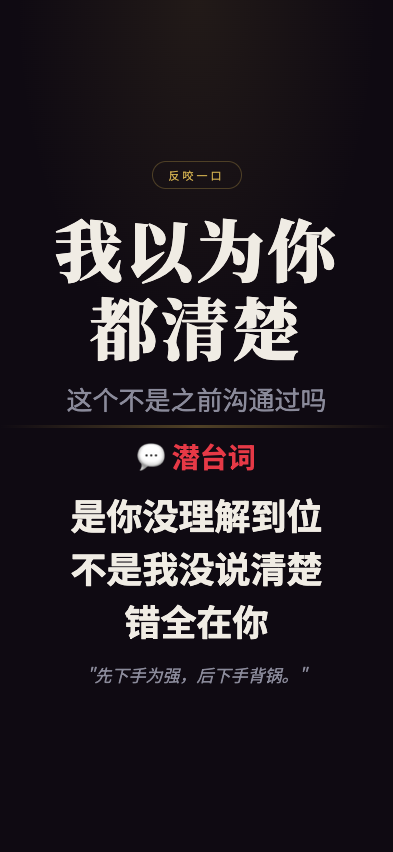
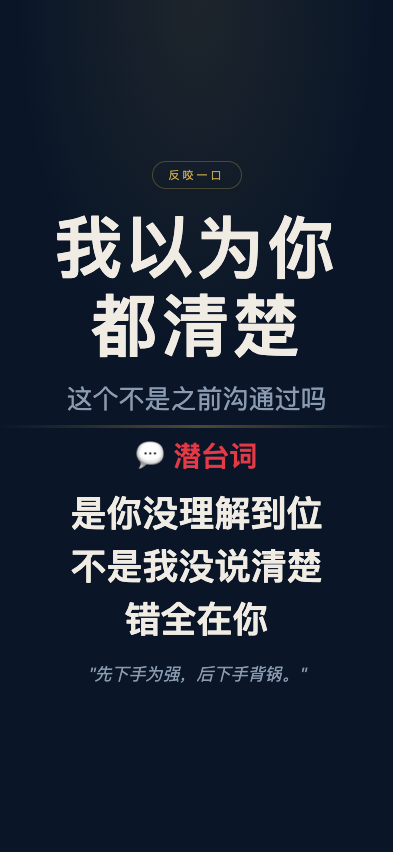
feat: 职场生存法则 screenshot - woyiweinidouqingchu

diff --git a/wuliao-tools/tools/biz-speak/scenes/woyiweinidouqingchu.html b/wuliao-tools/tools/biz-speak/scenes/woyiweinidouqingchu.html
@@ -7,9 +7,9 @@
 <link href="https://fonts.googleapis.com/css2?family=Noto+Serif+SC:wght@400;700;900&family=Noto+Sans+SC:wght@300;400;700&display=swap" rel="stylesheet">
 <style>
   :root {
-    --bg: #0f0a12;
+    --bg: #0a1628;
     --text: #f0ece4;
-    --text-dim: #8a8a9a;
+    --text-dim: #8a9ab0;
     --gold: #c9a84c;
     --red: #e63946;
   }
@@ -39,7 +39,7 @@
   .quote { font-size:17px; color:var(--text-dim); font-style:italic; text-align:center; line-height:1.8; margin-top:18px; padding:0 12px; }
 </style>
 </head>
-<body>
+<body class="theme-1">
   <div class="top">
     <div class="tag">反咬一口</div>
     <div class="main-title">我以为你都清楚</div>
@@ -49,9 +49,7 @@
   <div class="bottom">
     <div class="truth-label">💬 潜台词</div>
     <div class="truth-lines">
-      <div class="truth-line">是你没理解到位</div>
-      <div class="truth-line">不是我没说清楚</div>
-      <div class="truth-line">错全在你</div>
+      <div class="truth-line">是你没理解到位</div><div class="truth-line">不是我没说清楚</div><div class="truth-line">错全在你</div>
     </div>
     <div class="quote">"先下手为强，后下手背锅。"</div>
   </div>
